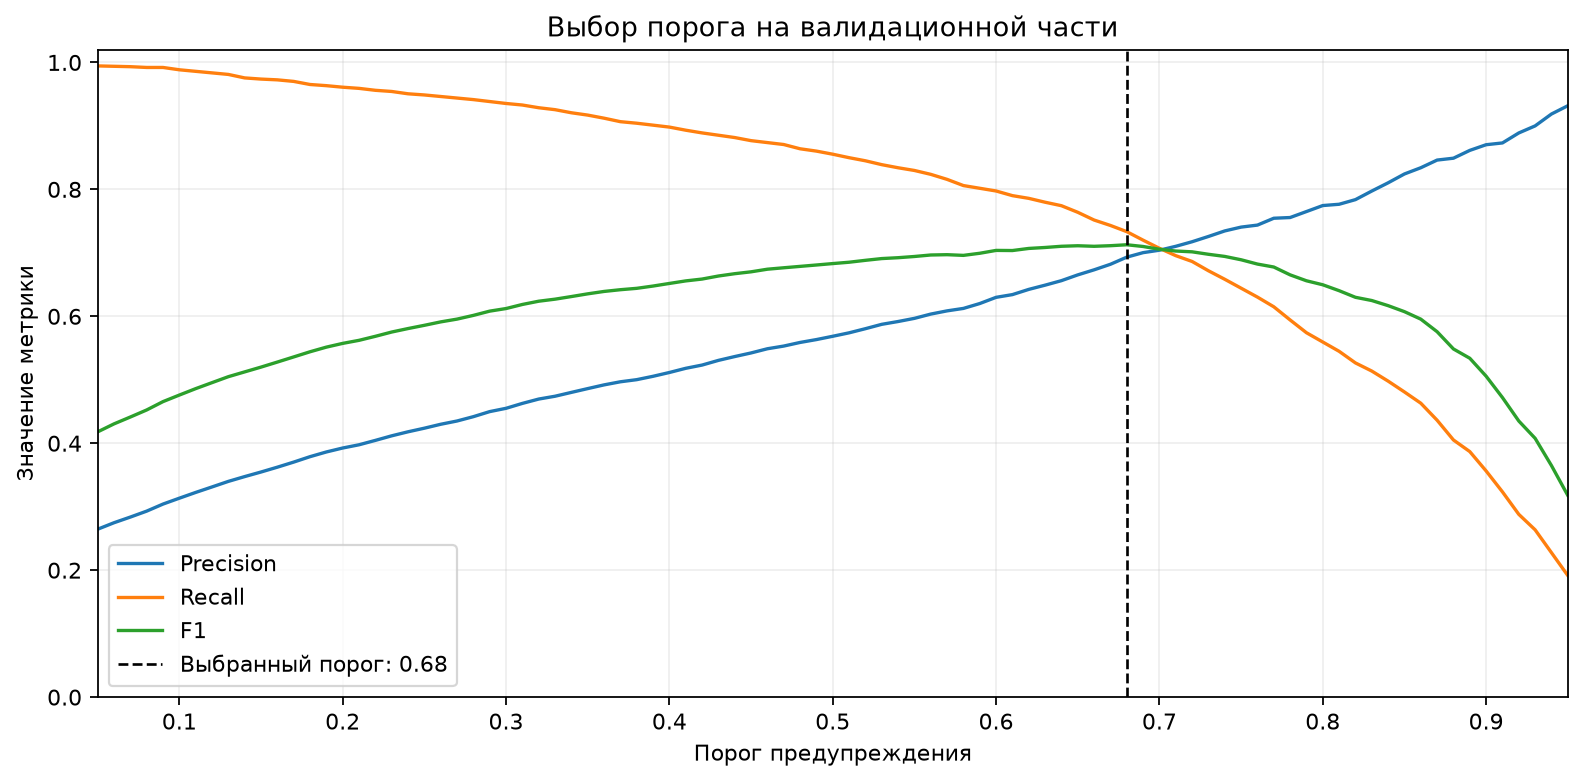
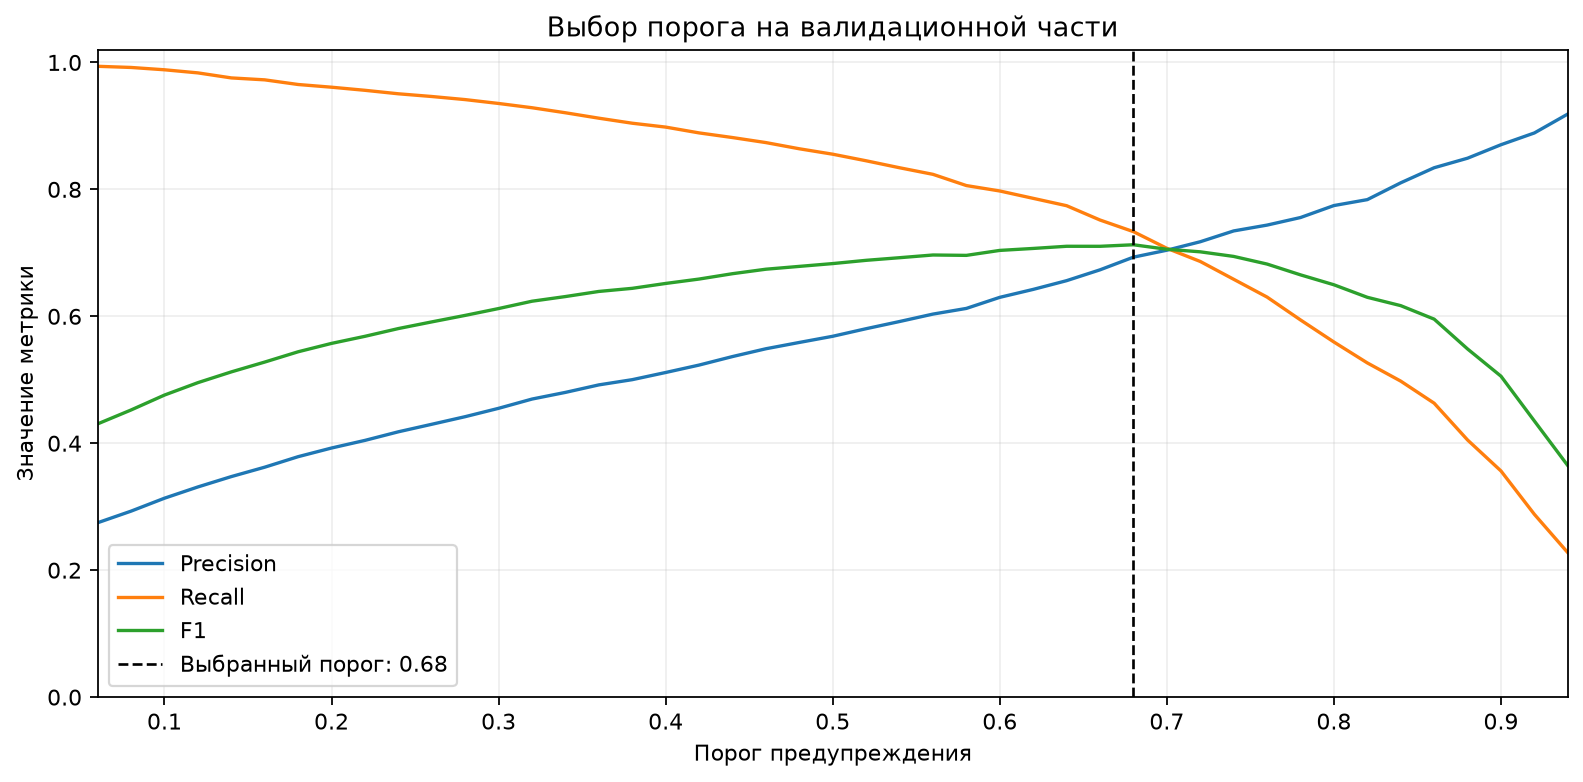
Prepare reproducible cloud deployment

diff --git a/app/dashboard.html b/app/dashboard.html
@@ -175,7 +175,7 @@
             <div class="metric"><div class="metric-label">ВИБРАЦИЯ</div><div class="metric-value" id="metric-vibration">—</div></div>
           </div>
           <div class="chart-wrap"><canvas id="risk-chart" aria-label="График риска перегрева"></canvas></div>
-          <div class="chart-legend"><span>Риск за последние 20 измерений</span><span class="threshold-key">--- порог 68%</span></div>
+          <div class="chart-legend"><span>Риск за последние 20 измерений</span><span class="threshold-key">--- порог модели</span></div>
         </section>
         <aside class="card insight-card">
           <div class="insight-section">
@@ -232,7 +232,7 @@
     <p class="footer-note">Демонстрационный проект · синтетические данные · модель не управляет оборудованием</p>
   </main>
   <script>
-    const threshold = 0.68;
+    let threshold = 0.68;
     const machineConfigs = {
       'M-01': { zone: 'Линия формования', spindle: 69, bearing: 62, load: 66, vibration: 1.35, wear: 28, hours: 58, rpm: 1780 },
       'M-02': { zone: 'Участок обработки', spindle: 79, bearing: 72, load: 81, vibration: 2.25, wear: 63, hours: 148, rpm: 1910 },
@@ -269,6 +269,8 @@
       const response = await fetch('/predict', { method: 'POST', headers: { 'Content-Type': 'application/json' }, body: JSON.stringify(telemetry(machine)) });
       if (!response.ok) throw new Error('API временно недоступен');
       const result = await response.json();
+      threshold = result.decision_threshold;
+      document.querySelector('.threshold-key').textContent = `--- порог ${(threshold * 100).toFixed(0)}%`;
       machine.risk = result.overheat_probability; machine.history.push(machine.risk); machine.history = machine.history.slice(-20);
     }
     function renderFleet() {

diff --git a/src/train.py b/src/train.py
@@ -55,7 +55,9 @@ FEATURES = [
 def build_threshold_table(y_true: pd.Series, proba: np.ndarray) -> pd.DataFrame:
     """Calculate validation metrics for a readable grid of decision thresholds."""
     rows = []
-    for threshold in np.arange(0.05, 0.951, 0.01):
+    # Two-percentage-point steps avoid selecting a threshold on insignificant
+    # floating-point differences between macOS and Linux builds.
+    for threshold in np.arange(0.06, 0.951, 0.02):
         pred = (proba >= threshold).astype(int)
         matrix = confusion_matrix(y_true, pred, labels=[0, 1])
         true_negative, false_positive, false_negative, true_positive = matrix.ravel()
@@ -91,7 +93,7 @@ def save_threshold_plot(table: pd.DataFrame, selected_threshold: float) -> None:
     ax.set_title("Выбор порога на валидационной части")
     ax.set_xlabel("Порог предупреждения")
     ax.set_ylabel("Значение метрики")
-    ax.set_xlim(0.05, 0.95)
+    ax.set_xlim(0.06, 0.94)
     ax.set_ylim(0, 1.02)
     ax.grid(alpha=0.2)
     ax.legend()
@@ -144,7 +146,8 @@ def main() -> None:
         min_samples_leaf=5,
         class_weight="balanced",
         random_state=42,
-        n_jobs=-1,
+        # One worker keeps tree ordering reproducible across local and cloud builds.
+        n_jobs=1,
     )
     model.fit(X_train, y_train)
 

diff --git a/README.md b/README.md
@@ -1,7 +1,21 @@
 # EL6 / Electrode Factory — ML Predictive Maintenance
 
+[![Python 3.12](https://img.shields.io/badge/Python-3.12-3776AB?logo=python&logoColor=white)](https://www.python.org/)
+[![FastAPI](https://img.shields.io/badge/FastAPI-API-009688?logo=fastapi&logoColor=white)](https://fastapi.tiangolo.com/)
+[![Docker](https://img.shields.io/badge/Docker-ready-2496ED?logo=docker&logoColor=white)](https://www.docker.com/)
+
 Учебный проект для портфолио Data Scientist / ML Engineer. Модель оценивает
 риск перегрева оборудования в следующие 10 минут по текущей телеметрии.
+
+## Что можно посмотреть
+
+- Live Monitoring трёх виртуальных станков с обновляемой телеметрией.
+- Сценарий перегрева: риск растёт, пересекает порог и вызывает тревогу.
+- Ручной прогноз через веб-интерфейс или `POST /predict`.
+- Временное разделение данных, отдельная валидация порога и финальный тест.
+- Воспроизводимая сборка: Docker сам создаёт данные и обучает модель.
+
+[![Deploy to Render](https://render.com/images/deploy-to-render-button.svg)](https://render.com/deploy?repo=https://github.com/Nikitaaa2619/el6_electrode_ml_project)
 
 ## Важное ограничение
 
@@ -14,14 +28,18 @@ ML-модель не управляет станком и не заменяет 
 
 ## Как устроен проект
 
-```text
-src/generate_data.py  -> data/telemetry.csv
-data/telemetry.csv    -> src/train.py -> models/model.joblib
-models/model.joblib   -> app/main.py  -> POST /predict
-Dockerfile            -> Docker-образ с API и моделью
+```mermaid
+flowchart LR
+    A[Генератор телеметрии] --> B[(Синтетические данные)]
+    B --> C[Обучение Random Forest]
+    C --> D[Модель и порог 0.68]
+    D --> E[FastAPI /predict]
+    E --> F[Live Monitoring]
+    E --> G[Swagger /docs]
 ```
 
-CSV и обученная модель создаются локально и не хранятся в Git.
+CSV и обученная модель не хранятся в Git. Их можно создать локально, а при
+сборке Docker-образа они создаются автоматически с фиксированным `random_state`.
 
 ## Локальный запуск
 
@@ -64,7 +82,8 @@ python notebooks/01_eda.py
 
 Результаты получены 29 сентября 2026 года на временном разделении 60/20/20:
 обучение, выбор порога и финальный тест. Между частями оставлен 10-минутный
-зазор. На валидации выбран порог 0.68 с максимальным F1.
+зазор. На валидации выбран порог 0.68 с максимальным F1. Кандидаты проверяются
+с шагом 0.02, чтобы не подгонять решение под незначительные различия вычислений.
 
 | Метрика | Значение |
 | --- | ---: |
@@ -90,8 +109,7 @@ python notebooks/01_eda.py
 
 ## Запуск в Docker
 
-Сначала нужно создать данные и обучить модель локально, чтобы появился файл
-`models/model.joblib`. Затем:
+Docker самостоятельно генерирует учебные данные и обучает модель:
 
 ```bash
 docker build -t el6-electrode-ml .
@@ -102,6 +120,16 @@ docker run --rm -p 127.0.0.1:8000:8000 el6-electrode-ml
 документация — по адресу http://127.0.0.1:8000/docs. `Control+C` останавливает контейнер, а `--rm`
 удаляет его остановленный экземпляр; Docker-образ остаётся.
 
+## Публичный запуск на Render
+
+В корне репозитория находится `render.yaml`: он описывает Docker-сервис,
+бесплатный план и проверку `/health`. После отправки файлов в GitHub нажмите
+кнопку **Deploy to Render** в начале README, войдите в Render и примените
+Blueprint. Сервис получит публичный адрес вида `https://...onrender.com`.
+
+Бесплатный сервис засыпает после периода без запросов, поэтому первое открытие
+после паузы может занять больше времени.
+
 ## Ограничения текущей версии
 
 - Даже улучшенный генератор остаётся упрощённой учебной симуляцией и не
@@ -111,4 +139,4 @@ docker run --rm -p 127.0.0.1:8000:8000 el6-electrode-ml
 
 1. Согласовать целевую цену пропущенного риска и ложной тревоги с экспертом.
 2. Добавить MLflow и мониторинг качества модели.
-3. Добавить историю прогнозов и мониторинг показателей во времени.
+3. Добавить хранение истории тревог между перезапусками сервиса.
